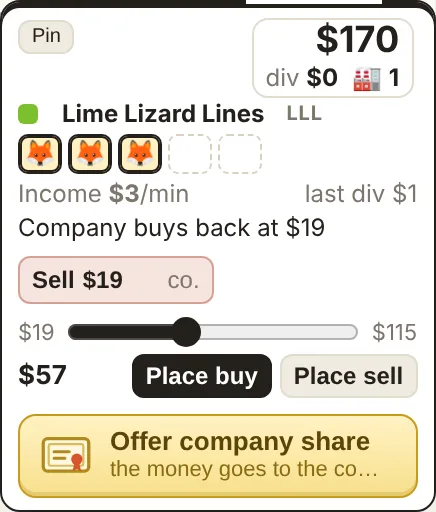
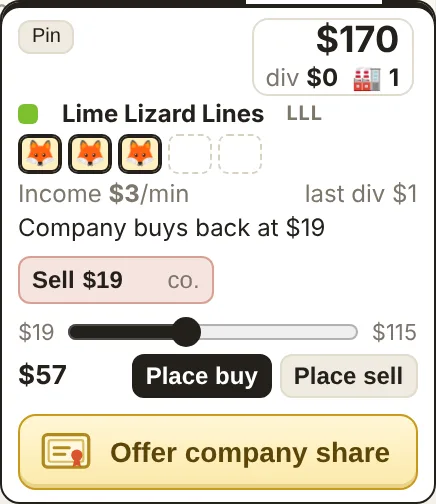
Offer button: just the label (no line underneath)
The tooltip still explains where the money goes.

Claude-Session: https://claude.ai/code/session_01C8anJjHiDxs9NrQijdSTCH

diff --git a/client/src/style.css b/client/src/style.css
@@ -430,13 +430,13 @@ html, body { margin: 0; height: 100%; background: var(--bg); }
 #companies .co:not(:hover):not(:focus-within):not(.pinned) .head .tk { display: inline; }
 /* Offering a company share: a gold button at the bottom of the card. While it waits after the last
    one, it's muted and a band shows the time left. */
-#companies .broker .offer { position: relative; overflow: hidden; display: flex; align-items: center; gap: 9px; width: 100%; margin-top: 8px; padding: 6px 10px; border: 1.5px solid #c99a1c; border-radius: 9px; background: linear-gradient(#fff6d6, #fbe9a9); color: #5c4508; text-align: left; box-shadow: inset 0 -2px 0 rgba(176,138,30,0.25); }
+#companies .broker .offer { position: relative; overflow: hidden; display: flex; align-items: center; gap: 9px; width: 100%; margin-top: 8px; padding: 7px 10px; border: 1.5px solid #c99a1c; border-radius: 9px; background: linear-gradient(#fff6d6, #fbe9a9); color: #5c4508; text-align: left; box-shadow: inset 0 -2px 0 rgba(176,138,30,0.25); }
 #companies .broker .offer[hidden] { display: none; }
 #companies .broker .offer:hover:not(:disabled) { background: linear-gradient(#fff2c4, #f7df8a); }
 #companies .broker .offer:active:not(:disabled) { box-shadow: none; transform: translateY(1px); }
 #companies .broker .offer .share-icon { width: 26px; height: 22px; flex: none; }
 #companies .broker .offer .txt { display: flex; flex-direction: column; line-height: 1.15; min-width: 0; }
-#companies .broker .offer .txt b { font-size: 13px; }
+#companies .broker .offer .txt b { font-size: 14px; }
 #companies .broker .offer .hint { font-size: 11px; color: #8a6a12; white-space: nowrap; overflow: hidden; text-overflow: ellipsis; }
 #companies .broker .offer:disabled { opacity: 1; background: #f6f3ec; border-color: var(--line); color: var(--muted); box-shadow: none; cursor: default; }
 #companies .broker .offer:disabled .share-icon { opacity: 0.5; filter: grayscale(1); }

diff --git a/client/src/main.ts b/client/src/main.ts
@@ -642,7 +642,7 @@ function refreshCompanies(obs: Observation) {
     if (canOffer) {
       const cooldown = Math.max(0, obs.saleCooldownUntil[c.id] - obs.elapsed);
       const wait = session.cfg.auctions.saleCooldownSec;
-      const html = `${shareIcon}<span class="txt"><b>${cooldown > 0 ? `Offer again in ${Math.ceil(cooldown)}s` : 'Offer company share'}</b><span class="hint">the money goes to the company</span></span>`;
+      const html = `${shareIcon}<span class="txt"><b>${cooldown > 0 ? `Offer again in ${Math.ceil(cooldown)}s` : 'Offer company share'}</b></span>`;
       if (offerBtn.dataset.html !== html) (offerBtn.innerHTML = html), (offerBtn.dataset.html = html);
       offerBtn.dataset.startsale = String(c.id);
       offerBtn.disabled = cooldown > 0;
